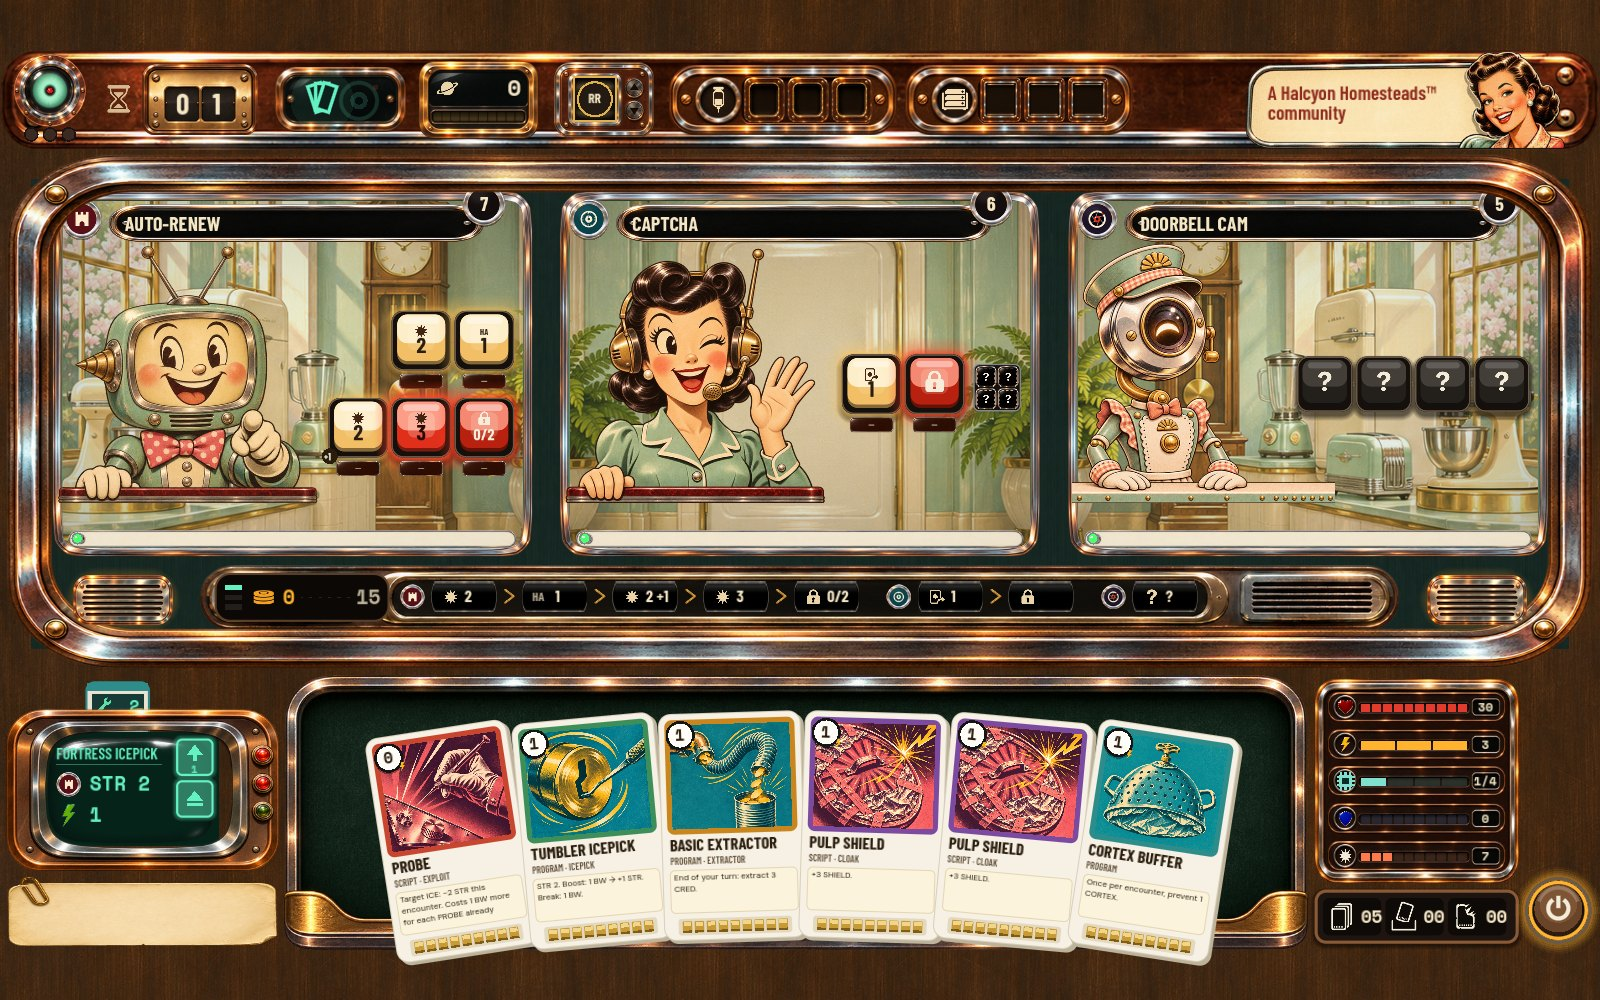
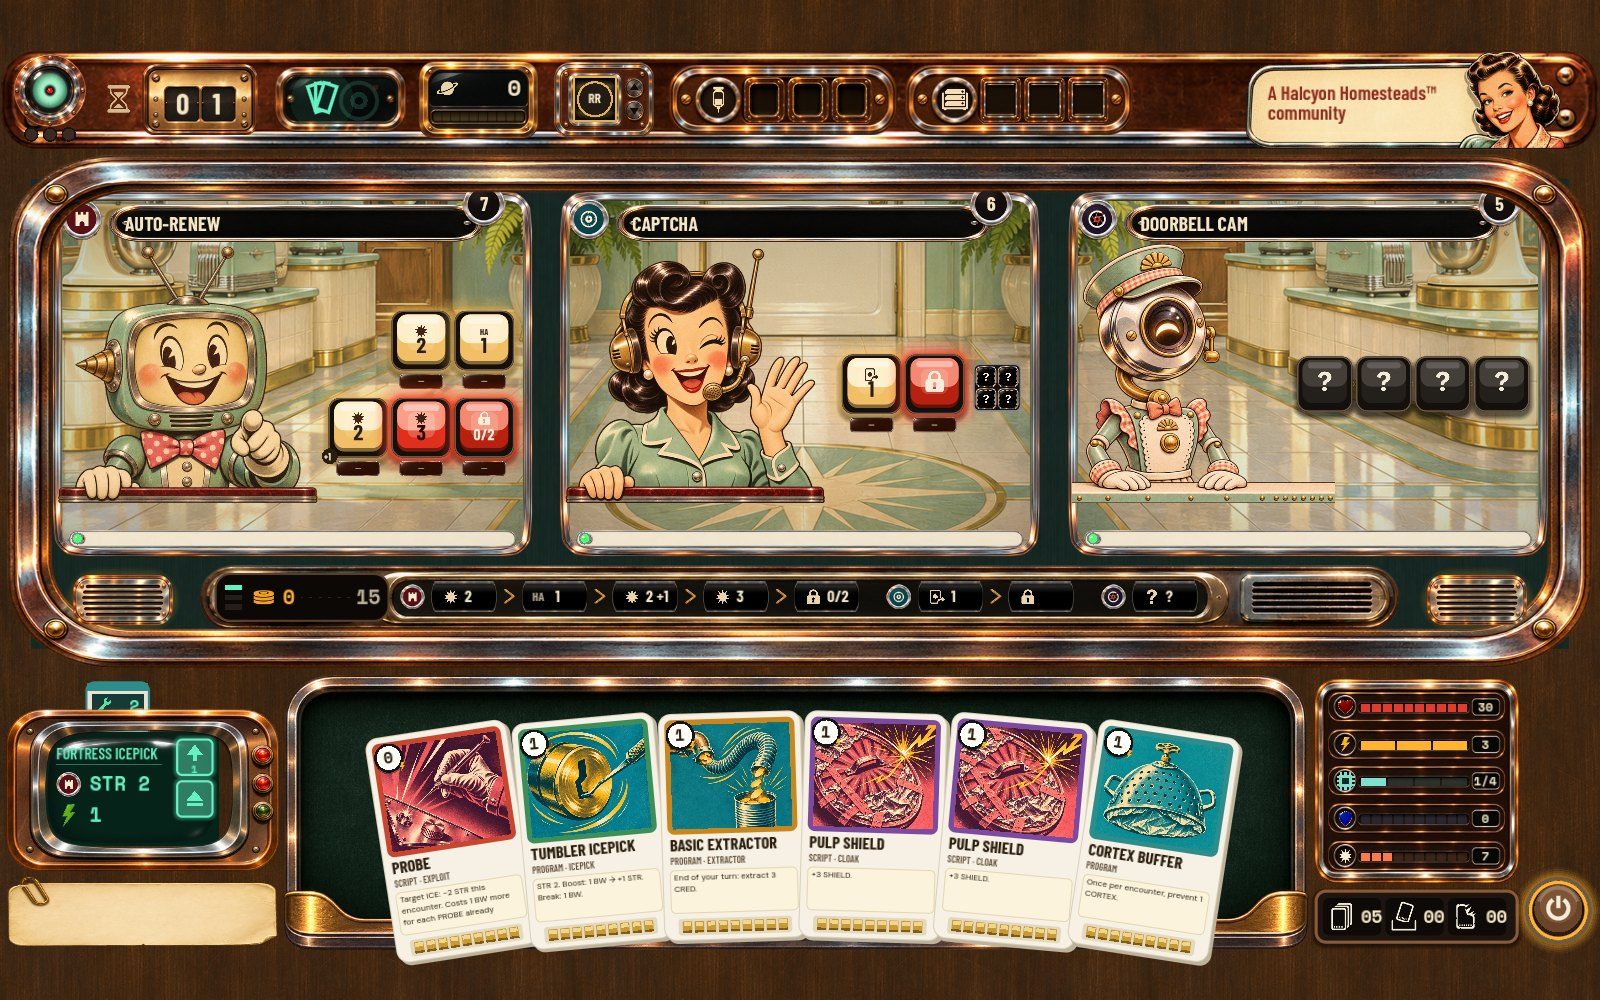
ARCH-V2-007a: show more floor in the ICE windows
Claude-Session: https://claude.ai/code/session_019hKEHu4UdPqY8EmrmFPKzG

Changed region(s): [[0.0312, 0.186, 0.9688, 0.558], [0.5, 0.217, 0.5312, 0.248]]

diff --git a/docs/REDLINE_MASTER_DESIGN.md b/docs/REDLINE_MASTER_DESIGN.md
@@ -3405,5 +3405,5 @@ Built on the V2 encounter screen, in five commits (see the development log). Eve
 
 **Designer, 2026-11-26 21:25:** "Ok i have background images for each corporation. those should help with the corporation look. the are prefixed with BG in file name." Placement chosen 21:3x: **"Inside the ICE windows"**.
 
-- **(a) Corporation rooms through the ICE windows:** the 22 `BG_` images imported to `godot/assets/concept/backgrounds/` (unchanged). On the V2 encounter the corporation's room replaces the seafoam field inside each ICE window's bezel, behind the avatar and keys, with a light seafoam wash and vignette for readability. The windows show **one continuous room** (each window shows the part of the image behind it). The HOSTILE room shows through with the hostile reveal (same composition, blended). Central Node: CENTRAL room; escape: ESCAPE room. Driven by `CorporationLook` (C06), so IRONWATCH and LUCIDA use the same screen. *Interpretations to confirm:* the wash (12%) and vignette strength; cover-fit crop (the middle band of the room shows). `BG_MAP_HALCYON` carries hand-drawn circles and arrows on its islands: keep or remove? Map and Node backgrounds are not wired yet (outside the encounter).
+- **(a) Corporation rooms through the ICE windows:** the 22 `BG_` images imported to `godot/assets/concept/backgrounds/` (unchanged). On the V2 encounter the corporation's room replaces the seafoam field inside each ICE window's bezel, behind the avatar and keys, with a light seafoam wash and vignette for readability. The windows show **one continuous room** (each window shows the part of the image behind it). The HOSTILE room shows through with the hostile reveal (same composition, blended). Central Node: CENTRAL room; escape: ESCAPE room. Driven by `CorporationLook` (C06), so IRONWATCH and LUCIDA use the same screen. Crop (designer, 2026-11-26 21:41: "would rather see more floor"): the room is fitted to cover the windows and cropped toward its bottom (`IceLane.room_v_align` 0.85), so the floor shows. *Interpretation to confirm:* the wash (12%) and vignette strength. `BG_MAP_HALCYON` carries hand-drawn circles and arrows on its islands: keep or remove? Map and Node backgrounds are not wired yet (outside the encounter).
 
